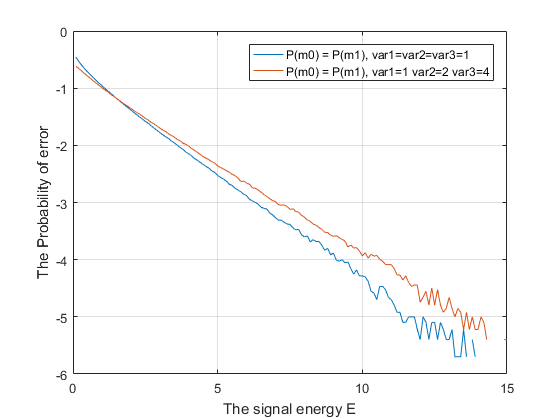
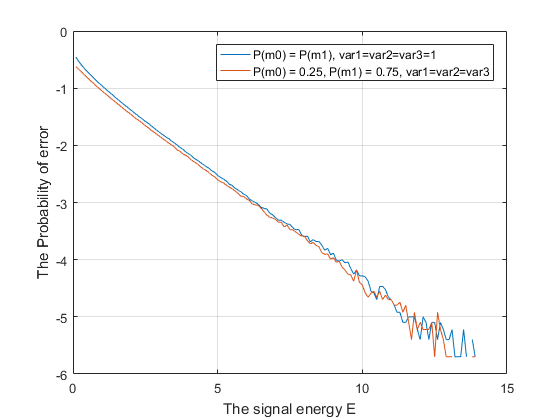
fix picture

diff --git a/graph.m b/graph.m
@@ -1,6 +1,6 @@
 E = 0.1:0.1:15.0;
-plot(E,log10(hc),E,log10(he))
+plot(E,log10(hc),E,log10(hd))
 grid on
 xlabel('The signal energy E')
 ylabel('The Probability of error')
-legend('P(m0) = P(m1), var1=var2=var3=1','P(m0) = P(m1), var1=1 var2=2 var3=4')
+legend('P(m0) = P(m1), var1=var2=var3=1','P(m0) = 0.25, P(m1) = 0.75, var1=var2=var3')
